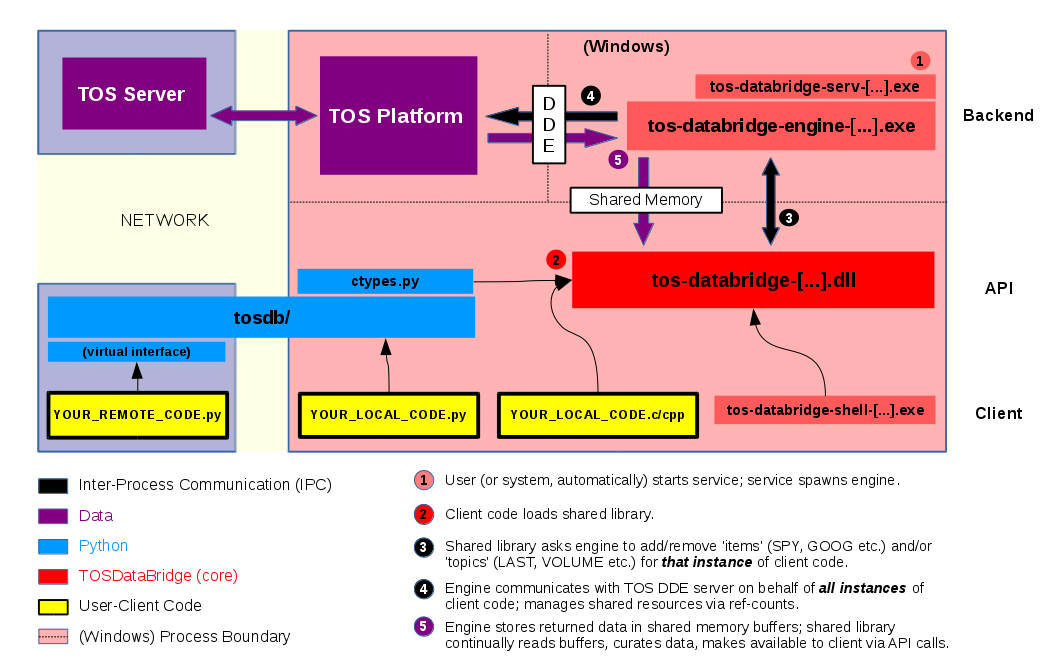
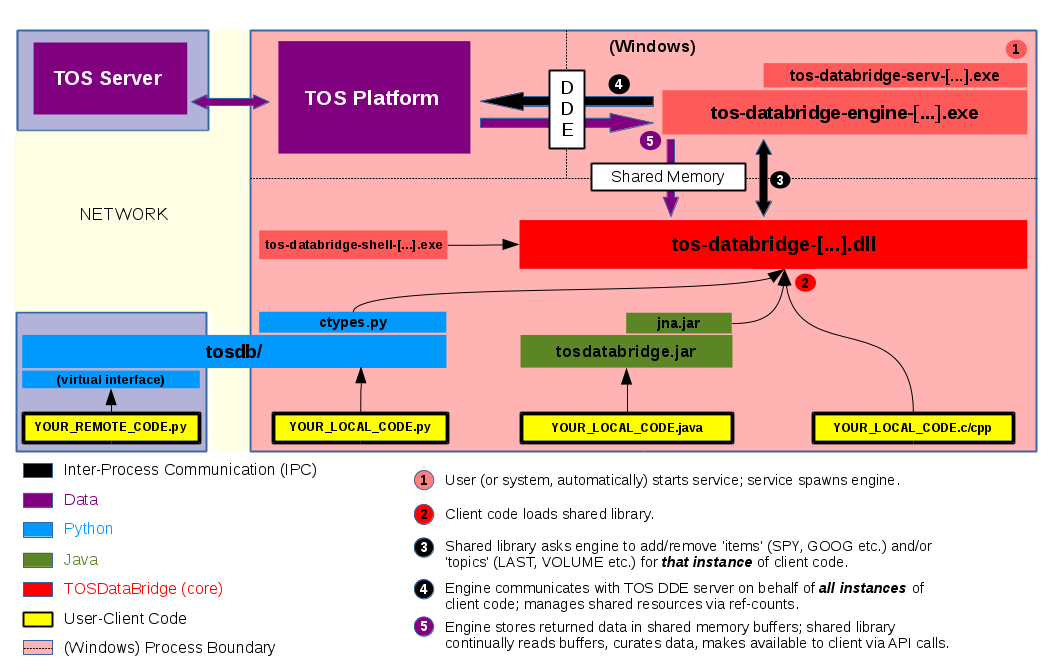
update docs for java wrapper

diff --git a/README_JAVA.md b/README_JAVA.md
@@ -1,0 +1,222 @@
+### Java Wrapper *(Alpha version)*
+- - -
+
+***WARNING: Still in early development:***
+
+*1. interface is subject to modest change,*
+
+*2. has undergone very little testing,*
+
+*3. bugs and crashes should be expected,*
+
+*4. implementation has not been optimized for speed, safety etc.*
+
+***The Python, C, and C++ interfaces are considerably more stable at this time.***
+
+- - -
+
+The java wrapper, like the python wrapper, extends the underlying C/C++ interface. It uses [Java Native Access(JNA)](https://github.com/java-native-access/jna) to load and access the underlying DLL, wrapping these calls in a more user-friendly API. Currently(unlike the python wrapper) there is no virtual layer for use on non-windows systems.
+
+> **IMPORTANT:** You still must [install the underlying C/C++ modules.](README_INSTALL.md) You also must be sure the build of these modules matches the build of the Java Runtime Environment(JRE) you plan to use. 
+
+> **NOTE:** If the library build is different than your JRE, init() with throw, indicating it can't find the native library in the resource path.
+
+
+#### Getting Started
+
+1. Add *java/tosdatabridge.jar* to your project's classpath.
+
+2. Add the requisite API calls and objects found in the *io.github.jeog.tosdatabridge* package(see below).
+
+3. Compile and run.
+
+An example using *test/java/TOSDataBridgeTest.java*:
+```
+C:\...\TOSDataBridge\test\java\> javac -classpath "../../java/tosdatabridge.jar" TOSDataBridgeTest.java
+C:\...\TOSDataBridge\test\java\> java -classpath "../../java/tosdatabridge.jar;." TOSDataBridgeTest "../../bin/Release/x64/tos-databridge-0.7-x64.dll"
+```
+
+
+#### API Basics
+
+As mentioned, the java wrapper mirrors the python wrapper in many important ways. It's recommended you skim the (more thorough) python docs and tutorial - even the C/C++ docs - for an explanation of the core concepts. The source is pretty straight forward:
+
+- **TOSDataBridge.java**: constants, exceptions, and some of the (high-level) administrative calls.
+
+- **DataBlock.java**: user-instantiated object used to pull data from the engine/platform (very similar to python's TOSDB_DataBlock)
+
+- **Topic.java**: enum that holds all the topics(LAST, BID, VOLUME etc.) that can be added to the block
+
+- **DateTime.java**: datetime object that wraps the C tm struct with an added millisecond field; returned in DateTimePair<Type> by the ...WithDateTime methods
+
+
+##### Important Details
+
+The way java handles type-checking, default function args, and exceptions force us to be much more explicit in the methods provided. For instance, in python, within TOSDB_DataBlock, we have a single stream_snapshot_from_marker() method that takes a number of different arguments, throws a number of exceptions, and returns a number of different, contingent types. In the java wrapper we have the following methods (all overloaded 2x, 24 in total) for the same functionality:
+
+    getStreamSnapshotLongsFromMarker(...);
+    getStreamSnapshotDoublesFromMarker(...); 
+    getStreamSnapshotStringsFromMarker(...); 
+
+    getStreamSnapshotLongsFromMarkerWithDateTime(...);
+    getStreamSnapshotDoublesFromMarkerWithDateTime(...); 
+    getStreamSnapshotStringsFromMarkerWithDateTime(...); 
+
+    getStreamSnapshotLongsFromMarkerIgnoreDirty(...); 
+    getStreamSnapshotDoublesFromMarkerIgnoreDirty(...); 
+    getStreamSnapshotStringsFromMarkerIgnoreDirty(...); 
+
+    getStreamSnapshotLongsFromMarkerWithDateTimeIgnoreDirty(...);
+    getStreamSnapshotDoublesFromMarkerWithDateTimeIgnoreDirty(...); 
+    getStreamSnapshotStringsFromMarkerWithDateTimeIgnoreDirty(...); 
+
+Like the C/C++ interfaces we have type-specific calls. If you call the wrong version the C lib will try to (safely) cast the value for you. If it can't it will return ERROR_GET_DATA and java will throw CLibException: 
+
+    switch( TOSDataBridge.getTopicType(topic) ){
+    case TOPIC_IS_LONG:
+        // use 'Long' version
+    case TOPIC_IS_DOUBLE:
+        // use 'Double' version
+    case TOPIC_IS_STRING:
+        //use 'String version
+    } 
+
+Methods with 'WithDateTime' appended return a Pair containing the underlying type AND a DateTime object: 
+
+    public static class DateTimePair<T> extends Pair<T,DateTime>{
+        public final T first; // inherited
+        public final DateTime second; //inherited
+    }
+
+Methods with a plural type in the name(e.g getStreamSnapshotLongs(...)) return an array:
+
+    DataBlock block = DataBlock(...);
+
+    Long[] l =  block.getStreamSnapshotLongs(item,topic);
+    DateTimePair<Long>[] ll = block.getStreamSnanshotLongsWithDateTime(item,topic);
+
+StreamSnapshotFromMarker(...) calls provide client code a guarantee that it won't miss data between calls, assuming the 'marker' doesn't hit the back of the stream, becoming 'dirty'. The standard call will throw once the stream becomes 'dirty' to indicate old data has been dropped and the guarantee has been broken. Use the 'IgnoreDirty' versions, or keep the marker moving, to prevent the exception from being thrown.
+
+##### Connect to Native Library
+
+    import io.github.jeog.tosdatabridge.TOSDataBridge;
+
+    // path to the C Lib
+    TOSDataBridge.connect("C:\...\TOSDataBridge\bin\Release\x64\tos-databridge-0.7-x64.dll);
+
+    switch( TOSDataBridge.connectionState() ){
+    case TOSDataBridge.CONN_NONN:
+        // Not connected to engine
+    case TOSDataBridge.CONN_ENGINE:
+        // Only connected to Engine (only access to admin calls)    
+    case TOSDataBridge.CONN_ENGINE_TOS:
+        // Connected to Engine AND TOS Platform (can get data from engine/platform)
+    }
+      
+##### Create a Data Block
+
+    import io.github.jeog.tosdatabridge.DataBlock;
+
+    // can hold up to 1000 data-points with DateTime, default timeout 
+    DataBlock block = DataBlock(1000, True); 
+
+##### Add Items/Topics
+
+    import io.github.jeog.tosdatabridge.Topic
+
+    block.addItem("SPY"); // goes into 'pre-cache' (see python/C/C++ docs)
+    block.addItem("QQQ"); // goes into 'pre-cache' (see python/C/C++ docs)
+    block.addTopic(Topic.LAST); // pulls items out of pre-cache (see python/C/C++ docs)
+    block.removeItem("QQQ");
+ 
+    Set<String> myItems = block.getItems();
+    Set<Topic> myTopics = block.getTopics();
+
+##### Get Data
+
+    import io.github.jeog.tosdatabridge.DataBlock.DateTimePair;
+
+    try{
+        switch( TOSDataBridge.getTopicType(Topic.LAST) ){
+        case TOSDataBridge.TOPIC_IS_LONG:
+            ...
+            break;
+
+        case TOSDataBridge.TOPIC_IS_DOUBLE: /* Topic.LAST stores doubles ... */
+            
+            // most recent data-point
+            Double d = block.getDouble("SPY", Topic.LAST); 
+
+            // 10 data-points ago, with datetime stamp
+            DateTimePair<Double> dDT = block.getDoubleWithDateTime("SPY", Topic.LAST, 9); 
+
+            // array of 10 most recent data-points
+            Double[] dd = block.getStreamSnapshotDoubles("SPY", Topic.LAST, 9, 0); 
+
+            // array of all valid data-points, with date time smap
+            DateTimePair<Double>[] ddDT = 
+                block.getStreamSnapshotDoublesWithDateTime("SPY", Topic.LAST) 
+
+            // print most recent price and datetime string to stdout 
+            System.out.println("SPY Last :: " + String.valueOf(ddDt[0].first) 
+                               + " @ " + String.vlaueof(ddDt[0].second);
+
+            //
+            // use 'FromMarker' methods (below) to guarantee contiguous data BETWEEN calls 
+            //   (see python and C/C++ docs for complete explanation)
+            //
+
+            // get 10 most recent values - THIS MOVES THE MARKER to 'beg' index (0 in this case)
+            List<DateTimePair<Double>> dListOld =  
+                new ArrayList<>(Arrays.asList( 
+                    block.getStreamSnapshotDoublesWithDateTime("SPY", Topic.LAST,9) )); 
+
+            // add some time between the calls so data can come into stream
+            // as data comes into the stream the 'marker' is moving backwards
+            Thread.sleep(1000);            
+
+            // get all the data-points up to the marker - THIS ALSO MOVES THE MARKER (as above)
+            List<DateTimePair<Double>> dlistNew = 
+                new ArrayList<>(Arrays.asList( 
+                    block.getStreamSnapshotDoublesFromMarkerWithDateTime("SPY", Topic.LAST) ));          
+
+            // concatenating the two arrays will guarantee we got ALL the data
+            dListNew.addAll(dListOld); // most recent first
+            for(DateTimePair<Double> p : dListNew)
+                System.out.println(p);
+
+            /* we can keep using the marker calls in this way; if the 'marker' hits 
+               the back of the stream(becomes 'dirty') the next 'Marker' call will 
+               throw DirtyMarkerException; use the 'IgnoreDirty' versions to avoid 
+               this behavior, allowing it to return as much valid data as possible */
+
+            break;
+
+        case TOSDataBridge.TOPIC_IS_STRING:
+            ...
+            break;
+       }
+    }catch(LibraryNotLoaded){
+        // init(...) was not successfull or the library was freed (all methods can throw this)
+    }catch(CLibException){
+        // an error was thrown from the C Lib (see CError.java) (all methods can throw this)
+    }catch(DataIndexException){
+        // we tried to access data that doesn't (or can't) exist (all methods can throw this)
+    }catch(DateTimeNotSupported){
+        // we are using a 'WithDateTime' call and our block doesn't support DateTime
+    }catch((DirtyMarkerException){
+        // we are NOT using an 'IgnoreDirty' call and getStreamSnapshotFromMarker has a 'dirty' marker (see python/C/C++ docs)
+    }
+
+##### Close
+
+    /* DataBlock's finalize() method calls close() on destruction but we can't 
+       guarantee when/if that will happend; IT'S RECOMMENDED you explicitly tell 
+       the C Lib to close the underlying block when you're done with it. */
+    block.close();
+    
+
+
+
+
+

diff --git a/README.md b/README.md
@@ -1,8 +1,8 @@
 ## TOSDataBridge  
 - - -
-TOSDataBridge (TOSDB) is an open-source collection of resources for 'scraping' real-time streaming data off of TDAmeritrade's ThinkOrSwim(TOS) platform, providing C, C++, and Python interfaces. 
+TOSDataBridge (TOSDB) is an open-source collection of resources for 'scraping' real-time streaming data off of TDAmeritrade's ThinkOrSwim(TOS) platform, providing C, C++, Java*(in development)* and Python interfaces. 
 
-TOSDB uses TOS's antiquated, yet still useful, DDE feature, directly through the Windows API. The C / C++ interfaces are implemented as a shared library that communicates with a backend Windows Service. The Python interface wraps this library in a more object-oriented, user-friendly format.
+TOSDB uses TOS's antiquated, yet still useful, DDE feature, directly through the Windows API. The C / C++ interfaces are implemented as a shared library that communicates with a backend Windows Service. The Python and Java interfaces wrap this library in a more object-oriented, user-friendly format.
 
 The core implementation is not portable, but the python interface does provides a thin virtualization layer over TCP. A user running Windows in a Virtual Machine, for instance, can expose the exact same python interface to a different host system running python3. 
 
@@ -28,7 +28,7 @@ The core implementation is not portable, but the python interface does provides 
 ### Quick Setup
 - - -
 - tosdb-setup.bat will attempt to install the necessary modules/dependencies for you but you should refer to [Installation Details](README_INSTALL.md) for a more detailed explanation
-- Be sure to know what build you need(x86 vs x64); it should match your system, all the modules you'll need, and your version of Python(if you plan on using the python wrapper)
+- Be sure to know what build you need(x86 vs x64); it should match your system, all the modules you'll need, and your version of Python(if you plan on using the python wrapper), or your version of the Java Runtime(if you plan on using the java wrapper)
 
     ##### Core C/C++ Libraries
     ```
@@ -52,6 +52,12 @@ The core implementation is not portable, but the python interface does provides 
     - Core C/C++ libs (above) must be installed first to use the (non-virtual) interface
     - C++ python extensions have been converted to pure python to avoid portability/build issues. (tosdb/_tosdb.py is now generated automatically by setup.py)
 
+    ##### Java Wrapper (optional)
+    - ***Warning - in early development; not stable; interface subject to change; [see docs](README_JAVA.md)***
+    - Core C/C++ libs (above) must be installed first
+    - *java/tosdatabridge.jar* should be included (source is in java/src if you want/need to build)
+    
+
 ### Quick Start
 - - -
 1. You may need to white-list some of these files (specifically tos-databridge-engine-\[x86|x64].exe) in your Anti-Virus software before proceeding.
@@ -74,6 +80,12 @@ The core implementation is not portable, but the python interface does provides 
 - import tosdb
 - [(view tutorial)](python/tutorial.md)
 
+##### For Java:
+- ***Warning - in early development; not stable; interface subject to change***
+- add *java/tosdatabridge.jar* to your classpath
+- [see docs](README_JAVA.md) for an intro to the API, or the source(java/src) for the details
+- Compile
+- Run
 
 ### Build (optional)
 - - -
@@ -112,7 +124,11 @@ The core implementation is not portable, but the python interface does provides 
 
     - **tosdb/cli_scripts/** : Python scripts built on top of the python wrapper.
 
-- **/sigs** - The detached signature for each binary; sha256 checksums for binaries, signatures, and the jeog.dev public key; **(master branch may, or may not, contain all, or any)**
+- **/java** - Files relevant to the Java wrapper.
+
+- **/test** - Test scripts for the various languages and modules.
+
+- **/sigs** - The detached signature for each binary; sha256 checksums for binaries and signatures; **(master branch may, or may not, contain all, or any)**
 
 - **/res** - Miscellaneous resources
 
@@ -120,24 +136,29 @@ The core implementation is not portable, but the python interface does provides 
 
 - **/prov** - Provisional code that is being worked on outside the main build tree
 
+### Docs
+- - - 
 
-### [Installation Details](README_INSTALL.md)
-- - -
+#### [Installation Details](README_INSTALL.md)
 
-### [C/C++ API](README_API.md)
-- - -
 
-### [TOSDataBridge Service](README_SERVICE.md)
-- - -
+#### [C/C++ API](README_API.md)
 
-### [Python Wrapper (tosdb/)](README_PYTHON.md)
-- - -
 
-### [Details, Provisos & Source Glossary](README_DETAILS.md)
-- - -
+#### [TOSDataBridge Service](README_SERVICE.md)
+
+
+#### [Python Wrapper (tosdb/)](README_PYTHON.md)
+
+
+#### [Java Wrapper (Alpha version)](README_JAVA.md)
+
+
+#### [Details, Provisos & Source Glossary](README_DETAILS.md)
+
 
 ### Contributions
----
+- - -
 This project grew out of personal need and is maintained by a single developer. Contributions - testing, bug fixes, suggestions, extensions, whatever - are always welcome. If you want to contribute something non-trivial it's recommended you communicate the intention first to avoid unnecessary and/or conflicting work.
 
 Simply reporting bugs or questioning seemingly idiotic or unintuitive interface design can be very helpful.

diff --git a/python/tutorial.md b/python/tutorial.md
@@ -5,8 +5,6 @@ This tutorial attempts to show example usage of the core tosdb package. Please r
 
 Comments inside the screen-shots help explain what we are doing and why.
 
----
-
 **IMPORTANT:** Before using tosdb/ be sure to:
 
 1. build/install the backend C/C++ modules with the appropriate build(x86 vs. x64) for your version of python, 
@@ -14,8 +12,10 @@ Comments inside the screen-shots help explain what we are doing and why.
 3. have the TOS platform running, with the correct privileges (i.e if you run as admin you should have passed 'admin' to the tosdb-setup.bat script),
 4. install the tosdb/ package (python setup.py install)
 
+---
+
 First, let's initialize the library with the init() call. Be sure to use the correct version of the tos-databridge DLL. If you are using branch/version v0.6, for instance, you should be using tos-databridge-0.6-x86.dll or tos-databridge-0.6-x64.dll.
-This - via ctypes.py - loads the shared library into python and tries to automatically connect to the engine.
+This loads the shared library into python and tries to automatically connect to the engine.
 
 ![](./../res/tosdb_tut1.png)
 
